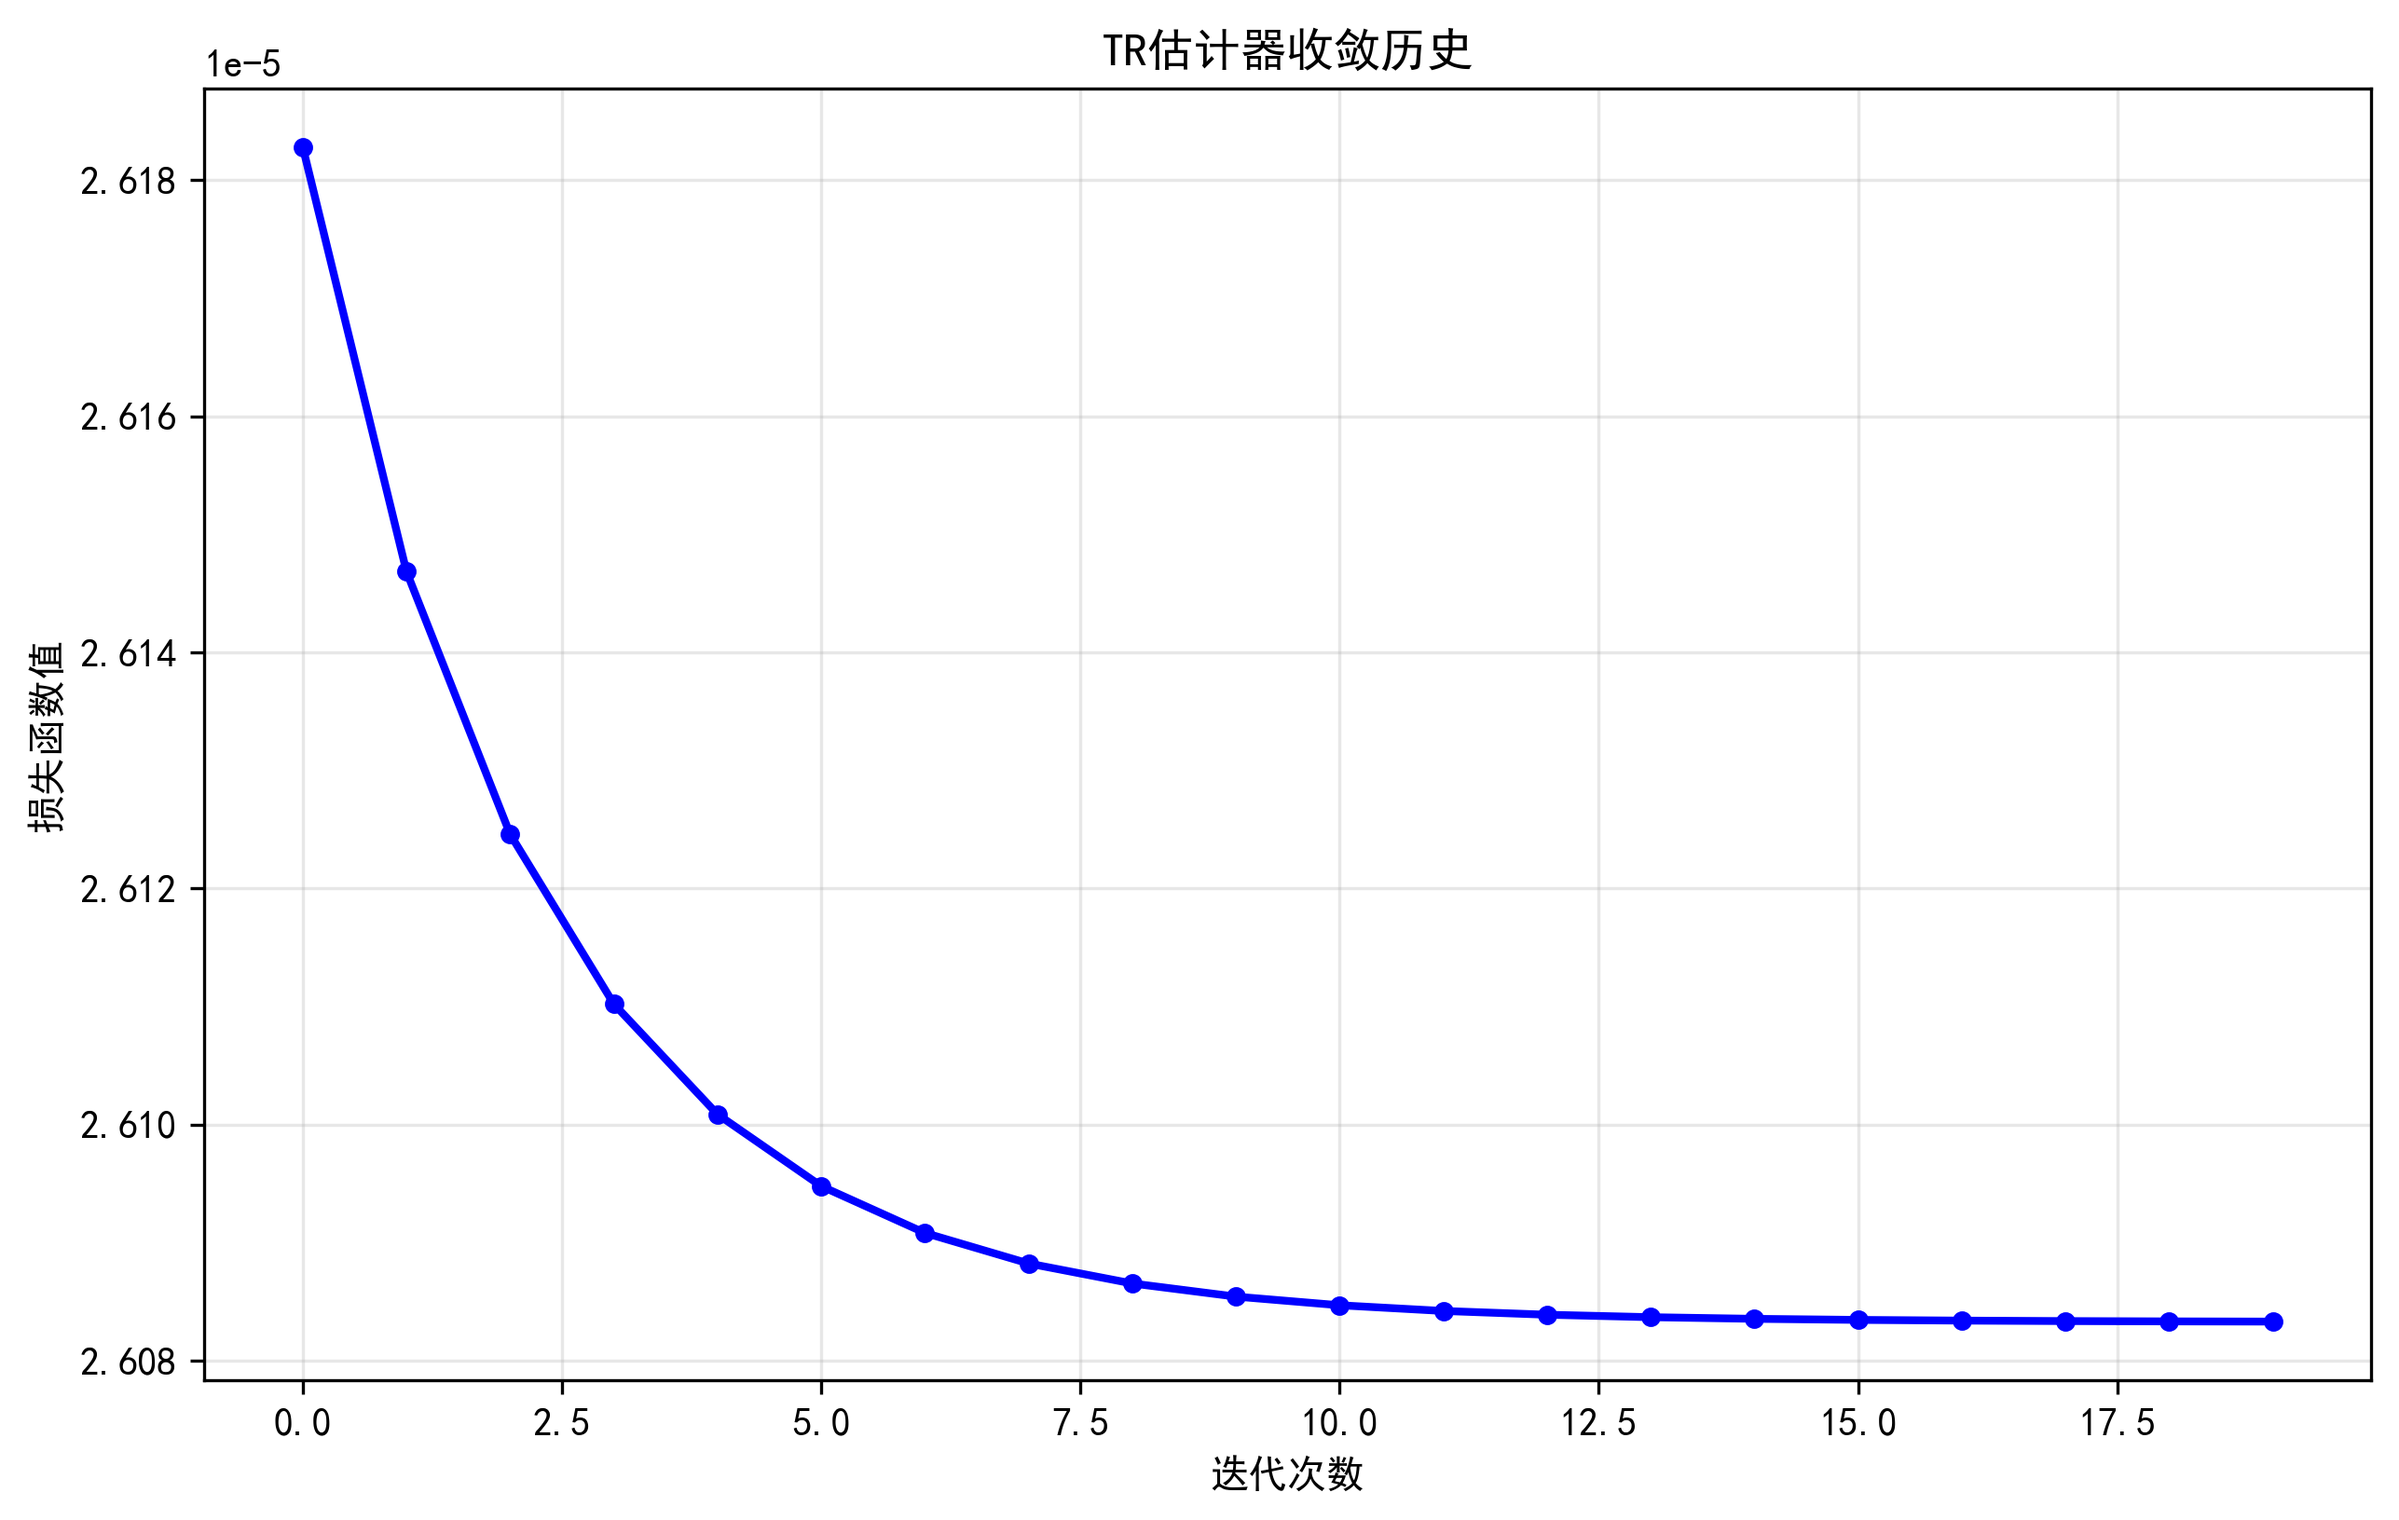
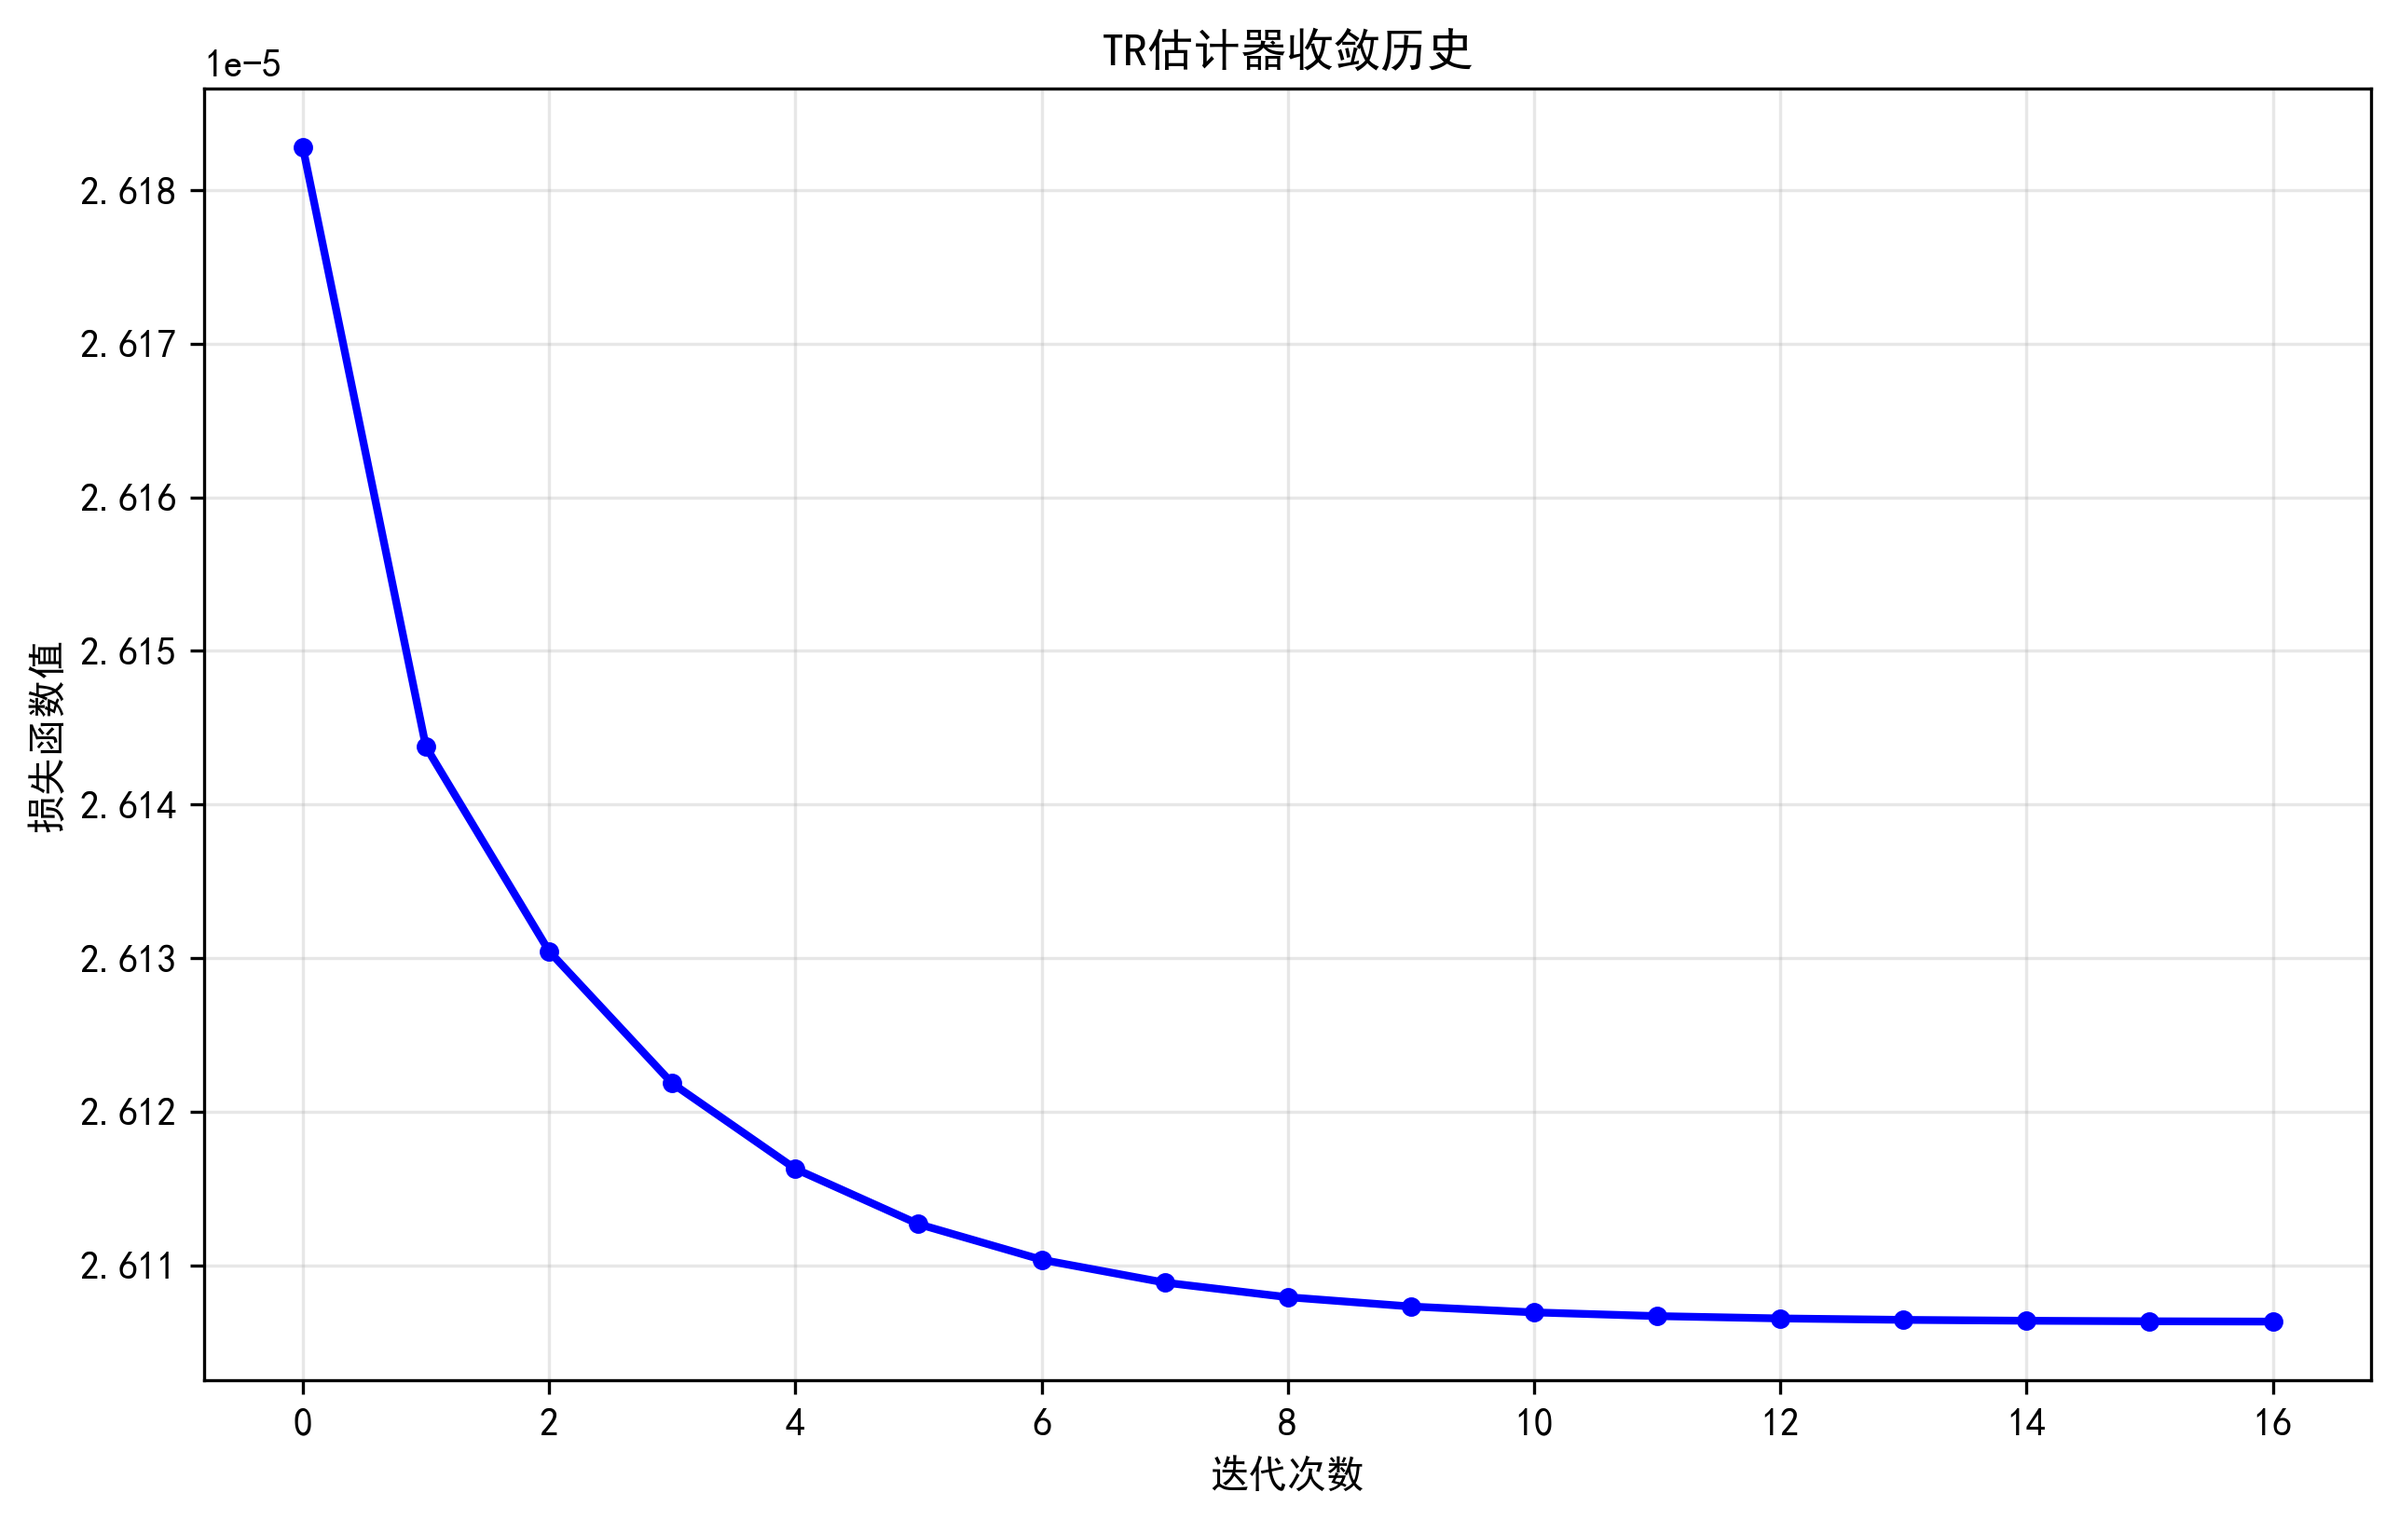
ready plot

diff --git a/_10_Simulation.py b/_10_Simulation.py
@@ -1,16 +1,19 @@
 import pickle, math
 import pandas as pd
 import numpy as np
+import matplotlib.pyplot as plt
+import networkx as nx
+from matplotlib.animation import FuncAnimation
 from _5_data_reset import CompatibleData
 
 
 class Diffusion:
-    def __init__(self, target, num=3, iter=10):
+    def __init__(self, target, xi=0.95, threshold=0.6, num=3, iter=10):
         self.target = target  # 产品
         self.num = num
         self.iter = iter
-        self.xi = 0.95
-        self.threshold = 0.6
+        self.xi = xi
+        self.threshold = threshold
         self.a = 0.6
         self.c = 0.4
         self.investment = {}
@@ -27,26 +30,130 @@ class Diffusion:
         self.beta_hat = results['beta_hat']
         self.P = results['P_edge']
 
+        # 存储每轮的可视化数据
+        self.visualization_data = []
+
     def _investment(self, source_node):
         return self.a * self.investment[source_node] + self.c * self.mean
 
     def _get_round(self, df):
         return df['Round'].unique()
 
+    def _create_network_graph(self, df, current_round, new_investments):
+        """创建当前轮次的网络图数据"""
+        # 获取当前轮次及之前的所有投资记录
+        records = df[df['Round'] <= current_round]
+
+        # 创建有向图
+        G = nx.DiGraph()
+
+        # 添加节点和投资金额
+        node_investments = {}
+        for _, row in records.iterrows():
+            node_id = row['对应的local_node_id']
+            investment = row['Denominations']
+            G.add_node(node_id, investment=investment)
+            node_investments[node_id] = investment
+
+        # 添加边（传播关系）
+        edge_data = []
+
+        # 对于当前轮次的新投资者，添加从传播者到他们的边
+        for new_inv in new_investments:
+            new_node = new_inv['对应的local_node_id']
+            # 找到影响这个新投资者的传播者
+            spread_nodes = [node for node in self.neighbor[new_node]
+                            if node in G.nodes and node in records['对应的local_node_id'].values]
+            if spread_nodes:
+                # 随机选择一个传播者（模拟实际传播路径）
+                source_node = np.random.choice(spread_nodes)
+                G.add_edge(source_node, new_node)
+                edge_data.append((source_node, new_node, 'new'))
+
+        # 对于之前的投资者，也添加传播关系（基于邻居关系）
+        for node in G.nodes():
+            if node in self.neighbor:
+                for neighbor_node in self.neighbor[node]:
+                    if neighbor_node in G.nodes and not G.has_edge(node, neighbor_node):
+                        # 只添加可能存在的传播关系
+                        G.add_edge(node, neighbor_node, style='potential')
+
+        return G, node_investments, edge_data
+
+    def _plot_network(self, G, node_investments, edge_data, current_round, new_investments, fig, ax):
+        """绘制网络图"""
+        ax.clear()
+
+        # 设置布局
+        pos = nx.spring_layout(G, k=1, iterations=50)
+
+        # 准备节点颜色（根据投资金额）
+        investments = list(node_investments.values())
+        if investments:
+            min_inv, max_inv = min(investments), max(investments)
+            if min_inv == max_inv:
+                node_colors = ['lightblue'] * len(G.nodes())
+            else:
+                node_colors = [plt.cm.Blues((inv - min_inv) / (max_inv - min_inv))
+                               for inv in investments]
+        else:
+            node_colors = ['lightblue'] * len(G.nodes())
+
+        # 绘制边
+        new_edges = [(u, v) for u, v, style in edge_data if style == 'new']
+        potential_edges = [(u, v) for u, v, style in edge_data if style == 'potential']
+
+        # 绘制潜在边（浅色）
+        nx.draw_networkx_edges(G, pos, edgelist=potential_edges,
+                               edge_color='lightgray', alpha=0.3, arrows=True, ax=ax)
+
+        # 绘制新传播边（红色高亮）
+        nx.draw_networkx_edges(G, pos, edgelist=new_edges,
+                               edge_color='red', width=2, alpha=0.8, arrows=True, ax=ax)
+
+        # 绘制节点
+        nx.draw_networkx_nodes(G, pos, node_color=node_colors,
+                               node_size=300, alpha=0.8, ax=ax)
+
+        # 高亮新投资者
+        new_nodes = [inv['对应的local_node_id'] for inv in new_investments]
+        nx.draw_networkx_nodes(G, pos, nodelist=new_nodes,
+                               node_color='red', node_size=500, alpha=0.9, ax=ax)
+
+        # 添加节点标签
+        nx.draw_networkx_labels(G, pos, font_size=8, ax=ax)
+
+        # 添加标题和信息
+        ax.set_title(f'Investment Diffusion - Round {current_round}\n'
+                     f'Total Investors: {len(G.nodes())}, New Investors: {len(new_investments)}',
+                     fontsize=12)
+
+        # 添加图例
+        ax.text(0.02, 0.98, '● Existing Investor\n● New Investor\n→ Propagation',
+                transform=ax.transAxes, verticalalignment='top',
+                bbox=dict(boxstyle='round', facecolor='wheat', alpha=0.5))
+
+        ax.set_axis_off()
+
     def main(self):
         data = pd.read_csv('./data/cluster_with_rounds.csv', encoding='gb18030')
         df = data[data['Name of the Political Party'] == self.target]  # 初始已投资记录, 此时只考虑一个产品
         self.oiter = max(self._get_round(df))
 
+        # 准备动画
+        fig, ax = plt.subplots(figsize=(12, 8))
+        frames = []
+
         for round in range(self.oiter + 1, self.oiter + self.iter + 1):
 
-            records = df[df['Round'] < round]   # 获取本轮存在的投资记录
+            records = df[df['Round'] < round]  # 获取本轮存在的投资记录
             self.investment = dict(zip(records['对应的local_node_id'], records['Denominations']))
             self.mean = records['Denominations'].mean()
             nodes = records['对应的local_node_id'].unique()  # 获取本轮之前存在的已有投资者
 
             if len(nodes) == 0:  # 若本轮没有投资者
-                # plot 执行等待
+                # 记录空帧
+                frames.append((df, round, []))
                 continue
             else:
                 # 获取所有邻居并合并, 这些是本轮的潜在投资对象
@@ -60,6 +167,8 @@ class Diffusion:
 
                 for potential_investor in all_neighbors:
                     spread_nodes = [node for node in self.neighbor[potential_investor] if node in nodes]  # 找到潜在传播者
+                    if not spread_nodes:
+                        continue
                     spread_record = records[records['对应的local_node_id'].isin(spread_nodes)]  # 找到潜在传播记录
                     grouped = spread_record.groupby('Round')  # 按已投资者的投资发生轮次分组
 
@@ -75,7 +184,7 @@ class Diffusion:
 
                         # 计算该轮次的衰减后概率, 更新投资概率
                         adjusted_prob = self.P[potential_investor] * self.xi ** trail
-                        invest_prob += adjusted_prob * n_trials
+                        invest_prob += adjusted_prob * n_trials ** (1 - self.data.delta)
 
                         # 进行该轮次的伯努利试验
                         round_bernoulli_results = np.random.binomial(1, adjusted_prob, n_trials)
@@ -100,6 +209,26 @@ class Diffusion:
                     new_rows = pd.DataFrame(new_investments)
                     df = pd.concat([df, new_rows], ignore_index=True)
 
+                # 记录当前轮次的可视化数据
+                frames.append((df.copy(), round, new_investments))
+
+        # 创建动画
+        def update(frame_idx):
+            df_frame, round, new_investments = frames[frame_idx]
+            G, node_investments, edge_data = self._create_network_graph(df_frame, round, new_investments)
+            self._plot_network(G, node_investments, edge_data, round, new_investments, fig, ax)
+            return ax
+
+        # 生成动画
+        anim = FuncAnimation(fig, update, frames=len(frames), interval=1000, repeat=False)
+
+        # 保存动图
+        gif_filename = f'./data/diffusion_animation_{self.target.replace(" ", "_")}.gif'
+        anim.save(gif_filename, writer='pillow', fps=1)
+        print(f"动图已保存到: {gif_filename}")
+
+        plt.close()
+
         # 保存到新文件
         output_filename = f'./data/simulation_results_{self.target.replace(" ", "_")}_{round}.csv'
         df.to_csv(output_filename, index=False, encoding='gb18030')
@@ -112,8 +241,3 @@ if __name__ == '__main__':
     terget = 'BHARATIYA JANATA PARTY'
     run = Diffusion(terget)
     run.main()
-
-'''
-帮我添加一个可视化：对每一轮的存在投资行为（records）进行绘图，用节点表示投资者，用有向边表示上一轮投资的传播（所以最初轮的投资是没有边的独立集），用颜色深浅体现不同投资者投入资金的多少。
-如果可以，将27张图（26轮，每次绘图要用到本轮投资者和预测结果，体现投资的传播）形成一张动图并保存
-'''

diff --git a/_5_data_reset.py b/_5_data_reset.py
@@ -178,8 +178,12 @@ def complete_data_processing_pipeline():
 
     # 2. 构建特征矩阵
     print("\n步骤2: 构建特征矩阵...")
+    # 按照 'local_node_id' 对数据进行排序
+    df_sorted = df.sort_values('local_node_id')
+
+    # 然后提取特征
     feature_cols = [f'feature_{i}' for i in range(1, 22)]
-    X = df[feature_cols].values
+    X = df_sorted[feature_cols].values
     print(f"特征矩阵形状: {X.shape}")
 
     # 4. 构建邻接矩阵
